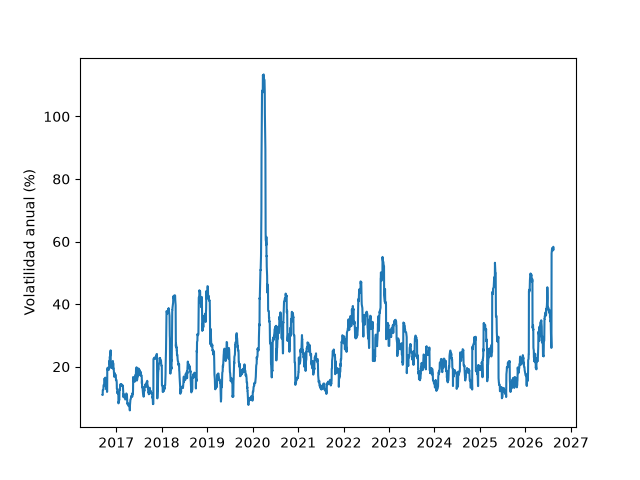
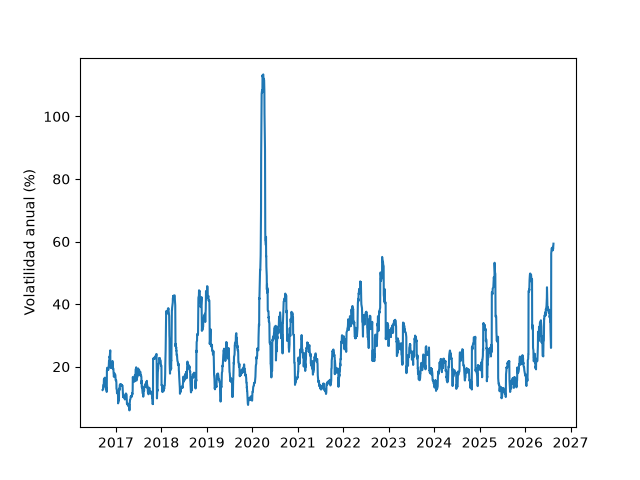
Refactor del capstone a funciones + primer test con pytest

diff --git a/capstone_v2.py b/capstone_v2.py
@@ -1,0 +1,62 @@
+import yfinance as yf
+import numpy as np
+import matplotlib.pyplot as plt
+def calcular_vol(retornos, periodos):
+    vol_d = retornos.std()
+    vol_x = vol_d * np.sqrt(periodos)
+    return vol_x
+def calcular_vol_roll(retornos, ventana, periodos):
+    vol_r_d = retornos.rolling(window=ventana).std()
+    vol_r_x = vol_r_d * np.sqrt(periodos)
+    return vol_r_x
+def calcular_retorno_log(precios):
+    retorno_log = np.log(precios / precios.shift(1))
+    return retorno_log
+def calcular_drawdown(precios):
+    running_max = np.maximum.accumulate(precios)
+    dd = (precios - running_max) / running_max
+    return dd
+def descargar_precios(ticker, periodo):
+    datos = yf.download(ticker, period=periodo)
+    precios = datos["Close"][ticker]
+    return precios
+def informe(vol_a, vol_r_a, rendimiento, max_dd, correlacion, ticker, periodo):
+    with open("informe.txt", "w") as f:
+        f.write(f"El ticker es: {ticker}\n")
+        f.write(f"El periodo a evaluar es: {periodo}\n")
+        f.write(f"Volatilidad anual {round(vol_a * 100, 4)}%\n")
+        f.write(f"Volatilidad rolling actual (20 días): {round(vol_r_a.iloc[-1] * 100, 4)}%\n")
+        f.write(f"Retorno total: {round(rendimiento * 100, 4)}%\n")
+        f.write(f"Maximo DrawDown: {round(max_dd * 100, 4)}%\n")
+        f.write(f"La correlacion con el SPY: {round(correlacion, 4)}\n")
+if __name__ == "__main__":
+    precios = descargar_precios("MSFT", "10y")
+    retornos_log = calcular_retorno_log(precios)
+    print("El retorno logaritmico diario es:", retornos_log.tail())
+    print("El retorno logaritmico de los 10 años es:", retornos_log.sum())
+    rendimiento = np.exp(retornos_log.sum()) - 1
+    print("El retnorno porcentual es de:", rendimiento * 100)
+    vol_a = calcular_vol(retornos_log, 252)
+    vol_r_a = calcular_vol_roll(retornos_log, 20, 252)
+    dd = calcular_drawdown(precios)
+    max_dd = dd.min()
+    drawdown_g = dd * 100
+    print("El mayor caida fue de:", max_dd)
+    precios_spy = descargar_precios("SPY", "10y")
+    spy_log_r = calcular_retorno_log(precios_spy)
+    correlacion = retornos_log.corr(spy_log_r)
+    print("La correlacion(SYP, MSFT) es:", correlacion)
+    normal = np.random.normal(retornos_log.mean(), retornos_log.std(), 100000)
+    plt.hist(retornos_log.dropna(), bins=100, density=True)
+    plt.hist(normal, bins=100, density=True, alpha=0.5)
+    informe(vol_a, vol_r_a, rendimiento, max_dd, correlacion, "MSFT", "10y")
+    plt.savefig("histogram.png")
+    plt.figure()
+    plt.plot(vol_r_a * 100)
+    plt.ylabel("Volatilidad anual (%)")
+    plt.savefig("volatilidad_rolling.png")
+    plt.figure()
+    plt.plot(drawdown_g)
+    plt.ylabel("Drawdown (%)")
+    plt.savefig("drawdown_diario.png")
+    plt.show()

diff --git a/3_activos.py b/3_activos.py
@@ -1,0 +1,14 @@
+import numpy as np
+import pandas as pd
+import yfinance as yf
+datos = yf.download(["MSFT", "ACAD", "UEC"], period="10y")
+precios = datos["Close"]
+print(precios)
+retorno_log = np.log(precios / precios.shift(1))
+print(retorno_log.tail())
+volatilidad_d = retorno_log.std()
+vol_m = volatilidad_d * np.sqrt(21)
+vol_a = volatilidad_d * np.sqrt(252)
+print(vol_a)
+corr = retorno_log.corr()
+print(corr)

diff --git a/test_capstone_v2.py b/test_capstone_v2.py
@@ -1,0 +1,6 @@
+import pandas as pd
+from capstone_v2 import calcular_vol
+def test_vol_cero_si_no_hay_dispersion():
+    retornos = pd.Series([0.01, 0.01, 0.01, 0.01])
+    resultado = calcular_vol(retornos, 252)
+    assert resultado == 0
